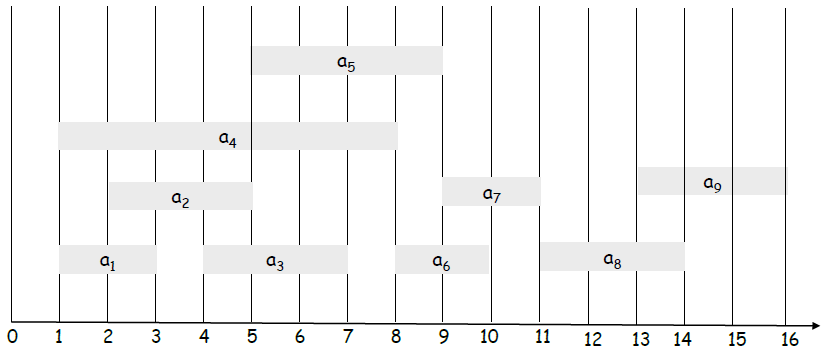
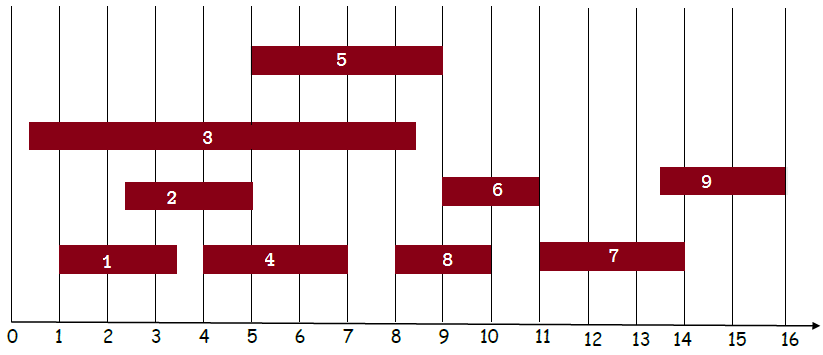
added rec

diff --git a/lec/review.html b/lec/review.html
@@ -1149,51 +1149,39 @@ Since $c_1 g \not\lt f$ for $n \geq n_0$, it must be that $f \leq c_1g$ for $n \
 </div>
 
 <h2 id="recurrences"><a name="user-content-recurrences" href="#recurrences" class="headeranchor-link" aria-hidden="true"><span class="headeranchor"></span></a>Recurrences</h2>
-<p><strong>TODO</strong></p>
+<p>Do <em>not</em> use the Master method for the following problems.</p>
+<p>a. Show that if $T(n) = 3T(n/2) + n^2$, then $T(n) \in O(n^2)$.<br />
+<div class='solutions'><br />
+Plugging in&hellip; remember that since $c$ is an arbitrary constant, it can consume other constants.<br/><br />
+$T(n) \leq 3(cn^2/2) + n^2$<br /><br />
+$T(n) \leq cn^2 + n^2$<br /><br />
+$T(n) \leq cn^2$<br /><br />
+<br/>Hence $T(n) \in O(n^2)$.<br />
+</div></p>
+<p>b. Show that if $T(n) = T(n/2) + 2^n$, then $T(n) \in O(2^n)$.<br />
+<div class='solutions'><br />
+$T(n) \leq c2^n / 2 + 2^n$<br /><br />
+$T(n) \leq c2^n$<br /><br />
+<br/>Hence $T(n) \in O(2^n)$.<br />
+</div></p>
+<p>c. Prove $T(n) = 16T(n/4) + n \rightarrow T(n) \in O(n^2)$.<br />
+<div class='solutions'><br />
+$T(n) \leq 16(cn^2 / 4) + n$<br /><br />
+$T(n) \leq cn^2 + n$<br /><br />
+<br/>Hence $T(n) \in O(n^2)$.<br />
+</div></p>
+<p>d. Prove $T(n) = 3T(n/3) + \sqrt{n} \rightarrow T(n) \in O(n)$.<br />
+<div class='solutions'><br />
+$T(n) \leq 3(cn/3) + \sqrt{n}$<br/><br />
+$T(n) \leq cn + \sqrt{n}$<br/><br />
+<br/>Hence $T(n) \in O(n)$.<br />
+</div></p>
 <!--
-##Problem 1: Greedy Algorithms and Dynamic Programming
+##Greedy Algorithms
 Consider a set of potentially overlapping intervals represented as tuples `(start, end)`, as shown below.
 <center><img src='../img/intervals.png' /></center>
-Determine a greedy strategy to the following problems that also maximizes the possible number of  intervals. Prove that the strategy is optimal.
+Determine a greedy strategy to the following problems that also maximizes the possible number of  intervals. Prove that the strategy is optimal. Assume there is an algorithm *OPT* that always yields the optimal solution.
 
-a. Minimum start time
-
-<div class="solutions" markdown=1>
-Consider intervals in ascending order of start time.
-
-**Proof**
-TODO
-</div>
-
-b. Minimum end time.
-
-<div class="solutions">
-Consider intervals in ascending order of end time.
-
-**Proof**
-TODO
-</div>
-
-c. Shortest intervals
-
-<div class="solutions">
-Consider intervals in ascending order over of interval length (e.g. `<end> - <start>`)
-
-**Proof**
-TODO
-</div>
-
-d. Fewest conflicts
-
-<div class="solutions">
-For each interval, count the number of conflicting jobs. Consider intervals in ascending order of number of conflicts.
-
-**Proof**
-TODO
-</div>
-
-
-##Problem 2
 test
 -->
 
